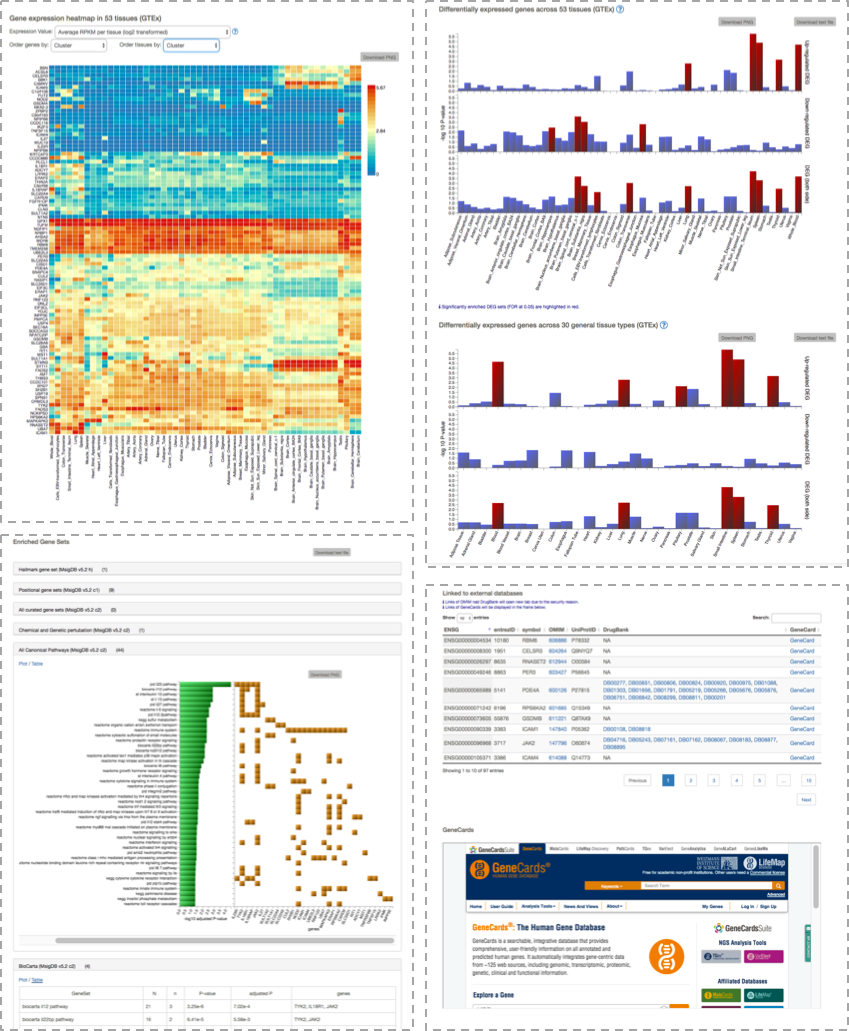
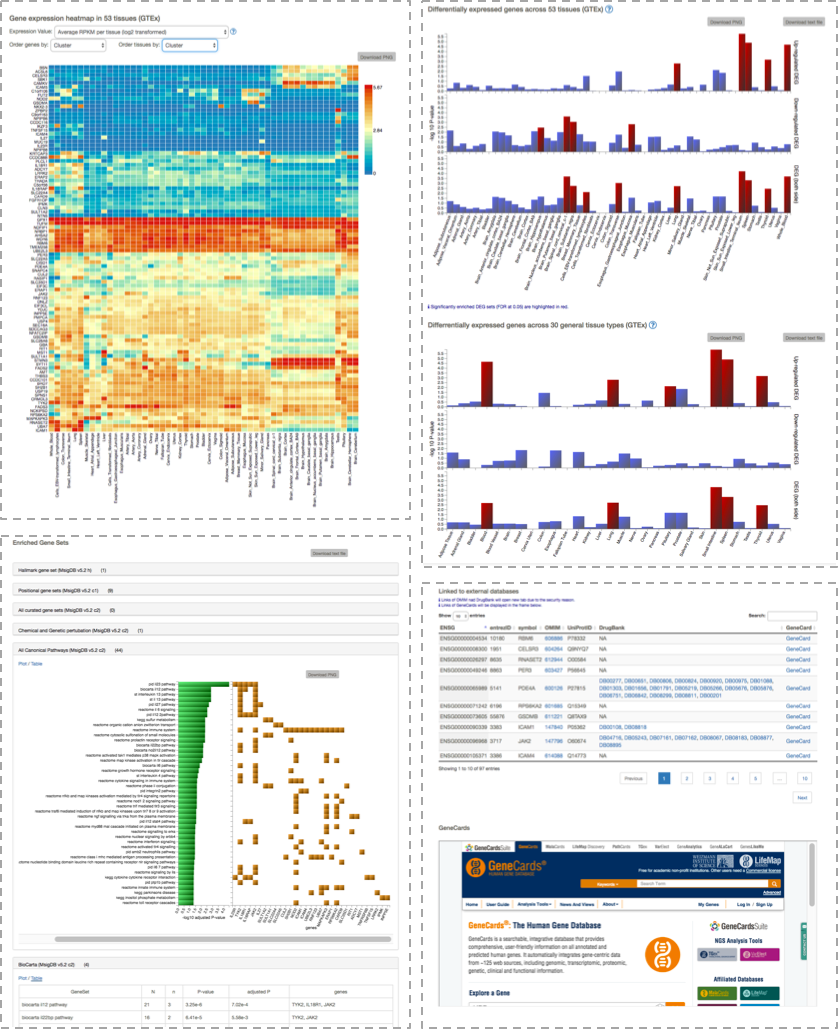
danielle gene2func updates

Changed region(s): [[0.0, 0.0, 1.0, 1.0], [0.6516, 0.0, 0.7446, 0.0311], [0.1241, 0.0, 0.1862, 0.0311]]

diff --git a/resources/views/pages/gene2func.blade.php b/resources/views/pages/gene2func.blade.php
@@ -49,7 +49,7 @@
       <li class="active"><a href="#newquery">New Query<i class="sub_icon fa fa-upload"></i></a></li>
       <div id="resultSide">
         <li><a href="#expPanel">Heatmap<i class="sub_icon fa fa-th"></i></a></li>
-        <li><a href="#tsEnrichBarPanel">Tissue sepcificity<i class="sub_icon fa fa-bar-chart"></i></a></li>
+        <li><a href="#tsEnrichBarPanel">Tissue specificity<i class="sub_icon fa fa-bar-chart"></i></a></li>
         <li><a href="#GeneSetPanel">Gene sets<i class="sub_icon fa fa-bar-chart"></i></a></li>
         <li><a href="#GeneTablePanel">Gene table<i class="sub_icon fa fa-table"></i></a></li>
       </div>
@@ -74,14 +74,14 @@
                   When both are provided, only genes pasted in the text box will be used.
                 </p>
                 1. Paste genes
-                <a class="infoPop" data-toggle="popover" data-content="Please pasge gene per line. ENSG ID, entrez ID and gene symbol are acceptable.">
+                <a class="infoPop" data-toggle="popover" data-content="Please paste one gene per line. ENSG ID, entrez ID or gene symbols are accepted.">
                   <i class="fa fa-question-circle-o fa-lg"></i>
                 </a>
                 <br/>
                 <textarea id="genes" name="genes" rows="12" cols="50" placeholder="Please enter each gene per line here." onkeyup="checkInput()" oninput="checkInput()"></textarea><br/>
                 <br/>
                 2. Upload file
-                <a class="infoPop" data-toggle="popover" data-content="The first column shoud be the genes without header. Extra columns will be ignored. ENSG ID, entrez ID and gene symbol are acceptable.">
+                <a class="infoPop" data-toggle="popover" data-content="The first column should be the genes without header. Extra columns will be ignored. ENSG ID, entrez ID or gene symbols are accepted.">
                   <i class="fa fa-question-circle-o fa-lg"></i>
                 </a>
                 <tab><input class="form-control-file" type="file" name="genesfile" id="genesfile" onchange="checkInput()"/>
@@ -96,7 +96,7 @@
               <div class="panel-body" style="padding-bottom: 0;">
                 <h4>Background genes</h4>
                 <p class="info"><i class="fa fa-info"></i>
-                  Please specify background genes for hypergeometric test.
+                  Please specify background genes against which your list of genes should be tested in the hypergeometric test.
                 </p>
                 1. Select background genes by gene type <a id="bkgeneSelectClear">Clear</a><br/>
                 <span class="info"><i class="fa fa-info"></i>
@@ -113,13 +113,13 @@
                   <option value="TR_C_gene:TR_D_gene:TR_V_gene:TR_J_gene">TR genes</option>
                 </select>
                 <br/>
-                2. Paste genes
+                2. Paste custom list of backbround genes
                 <a class="infoPop" data-toggle="popover" data-content="Please pasge gene per line. ENSG ID, entrez ID and gene symbol are acceptable.">
                   <i class="fa fa-question-circle-o fa-lg"></i>
                 </a><br/>
                 <textarea id="bkgenes" name="bkgenes" rows="5" cols="50" placeholder="Please enter each gene per line here." onkeyup="checkInput();" oninput="checkInput()"></textarea><br/>
                 <br/>
-                3. Upload file
+                3. Upload a file with a custom list of background genes
                 <a class="infoPop" data-toggle="popover" data-content="The first column shoud be the genes without header. Extra columns will be ignored. ENSG ID, entrez ID and gene symbol are acceptable.">
                   <i class="fa fa-question-circle-o fa-lg"></i>
                 </a>
@@ -134,10 +134,10 @@
           <div class="panel-body" style="padding:10;">
             <h4>Other optional parameters</h4>
             <!-- <tab><input type="checkbox" id="Xchr" name="Xchr">&nbsp;Execlude genes on X chromosome. <span style="color: #004d99">*Please check to EXCLUDE X chromosome.</span><br/> -->
-            <tab><input type="checkbox" id="MHC" name="MHC">&nbsp;Execlude the MHC region.
-            <span class="info"><i class="fa fa-info"></i> Please check to EXCLUDE genes in MHC region.</span><br/>
+            <tab><input type="checkbox" id="MHC" name="MHC">&nbsp;Exclude the MHC region.
+            <!-- <span class="info"><i class="fa fa-info"></i> Please check to EXCLUDE genes in MHC region.</span><br/> -->
             <span class="form-inline">
-              <tab>Multiple test correction method:
+              <tab>Desired mMultiple testing correction method for gene-set enrichment testing:
                 <select class="form-control" id="adjPmeth" name="adjPmeth" style="width:auto;">
                   <option value="bonferroni">Bonferroni</option>
                   <option value="sidak">Sidak</option>
@@ -153,10 +153,18 @@
             </span>
             <tab>&nbsp;<span class="info"><i class="fa fa-info"></i> Options are available from python module <code>statsmodels.sandbox.stats.multicomp.multipletests</code>.</span><br/>
             <span class="form-inline">
-              <tab>Adjusted P-value cutoff (&lt;): <input class="form-control" type="number" id="adjPcut" name="adjPcut" value="0.05"/><br/>
+              <tab>Adjusted P-value cutoff for gene set enrichment (&lt;): <input class="form-control" type="number" id="adjPcut" name="adjPcut" value="0.05"/>
+              <a class="infoPop" data-toggle="popover" title="Adjusted P-value cutoff" data-content="Only gene sets significantly enriched at given adjusted P-value threshold will be reported.">
+                <i class="fa fa-question-circle-o fa-lg"></i>
+              </a>
+              <br/>
             </span>
             <span class="form-inline">
-              <tab>Minimum overlapped genes (&ge;): <input class="form-control" type="number" id="minOverlap" name="minOverlap" value="2"/></br>
+              <tab>Minimum overlapping genes with gene sets (&ge;): <input class="form-control" type="number" id="minOverlap" name="minOverlap" value="2"/>
+              <a class="infoPop" data-toggle="popover" title="Minimum overlapping genes with gene sets" data-content="Only gene sets which overlapping with more than or equal to the given number of genes in the input genes will be reported.">
+                <i class="fa fa-question-circle-o fa-lg"></i>
+              </a>
+              </br>
             </span>
           </div>
         </div>
@@ -178,8 +186,18 @@
           		<option value="log2RPKM" selected>Average RPKM per tissue (log2 transformed)</option>
           		<option value="norm">Average of normalized RPKM per tissue (zero mean across tissues)</option>
           	</select>
-            <a class="infoPop" data-toggle="popover" title="Expression value" data-html="true" data-content="<b>Average RPKM per tissue</b>: This is average value of log2 transformed RPKM per tissue after winsorization at 50. This allows comparison of expression across tissues and genes.<br/>
-              <b>Average or normalized RPKM per tissue</b>: This is the average expression value per tissue after zero mean normalization of log2 transformed RPKM. This allows comparison of expression across tissues. Note that values of genes in a cirtine tissues are not comparable.">
+            <a class="infoPop" data-toggle="popover" title="Expression value" data-html="true" data-content="<b>Average RPKM per tissue</b>:
+              This is average value of the log2 transformed RPKM per tissue per gene after winsorization at 50.
+              This allows comparison of expression across tissues and genes.
+              Thus, a more red box for gene A in tissue X means a relatively higher expression of that gene in tissue X,
+              compared to a blue box of gene B in tissue Y.<br/>
+              <b>Average normalized RPKM per tissue</b>:
+              This is the average expression value per tissue per gene after zero mean normalization of the log2 transformed RPKM.
+              This allows comparison of expression across tissues.
+              Note that values of genes in a cirtine tissues are not comparable.
+              Thus a red box for gene A in tissue X means a relatively higher expression of that gene in tissue X,
+              compare to a blue box of the same gene in tissue Y.<br/>
+              <b>RPKM = Reads Per Killobase per Million</b>">
               <i class="fa fa-question-circle-o fa-lg"></i>
             </a>
           </span>
@@ -245,7 +263,7 @@
         <!-- GeneSet enrichment -->
         <div id="GeneSetPanel"  class="sidePanel container" style="padding-top:50px;">
           <!-- <button class="btn" id="GSdown" name="GSdown">Download text file</button><br/><br/> -->
-          <h4>Enriched Gene Sets</h4>
+          <h4>Enrichment of input genes in genes Gene Sets</h4>
           <form action="fileDown" method="post" target="_blank">
             <input type="hidden" name="_token" value="{{ csrf_token() }}">
             <input type="hidden" name="id" value="{{$id}}"/>
